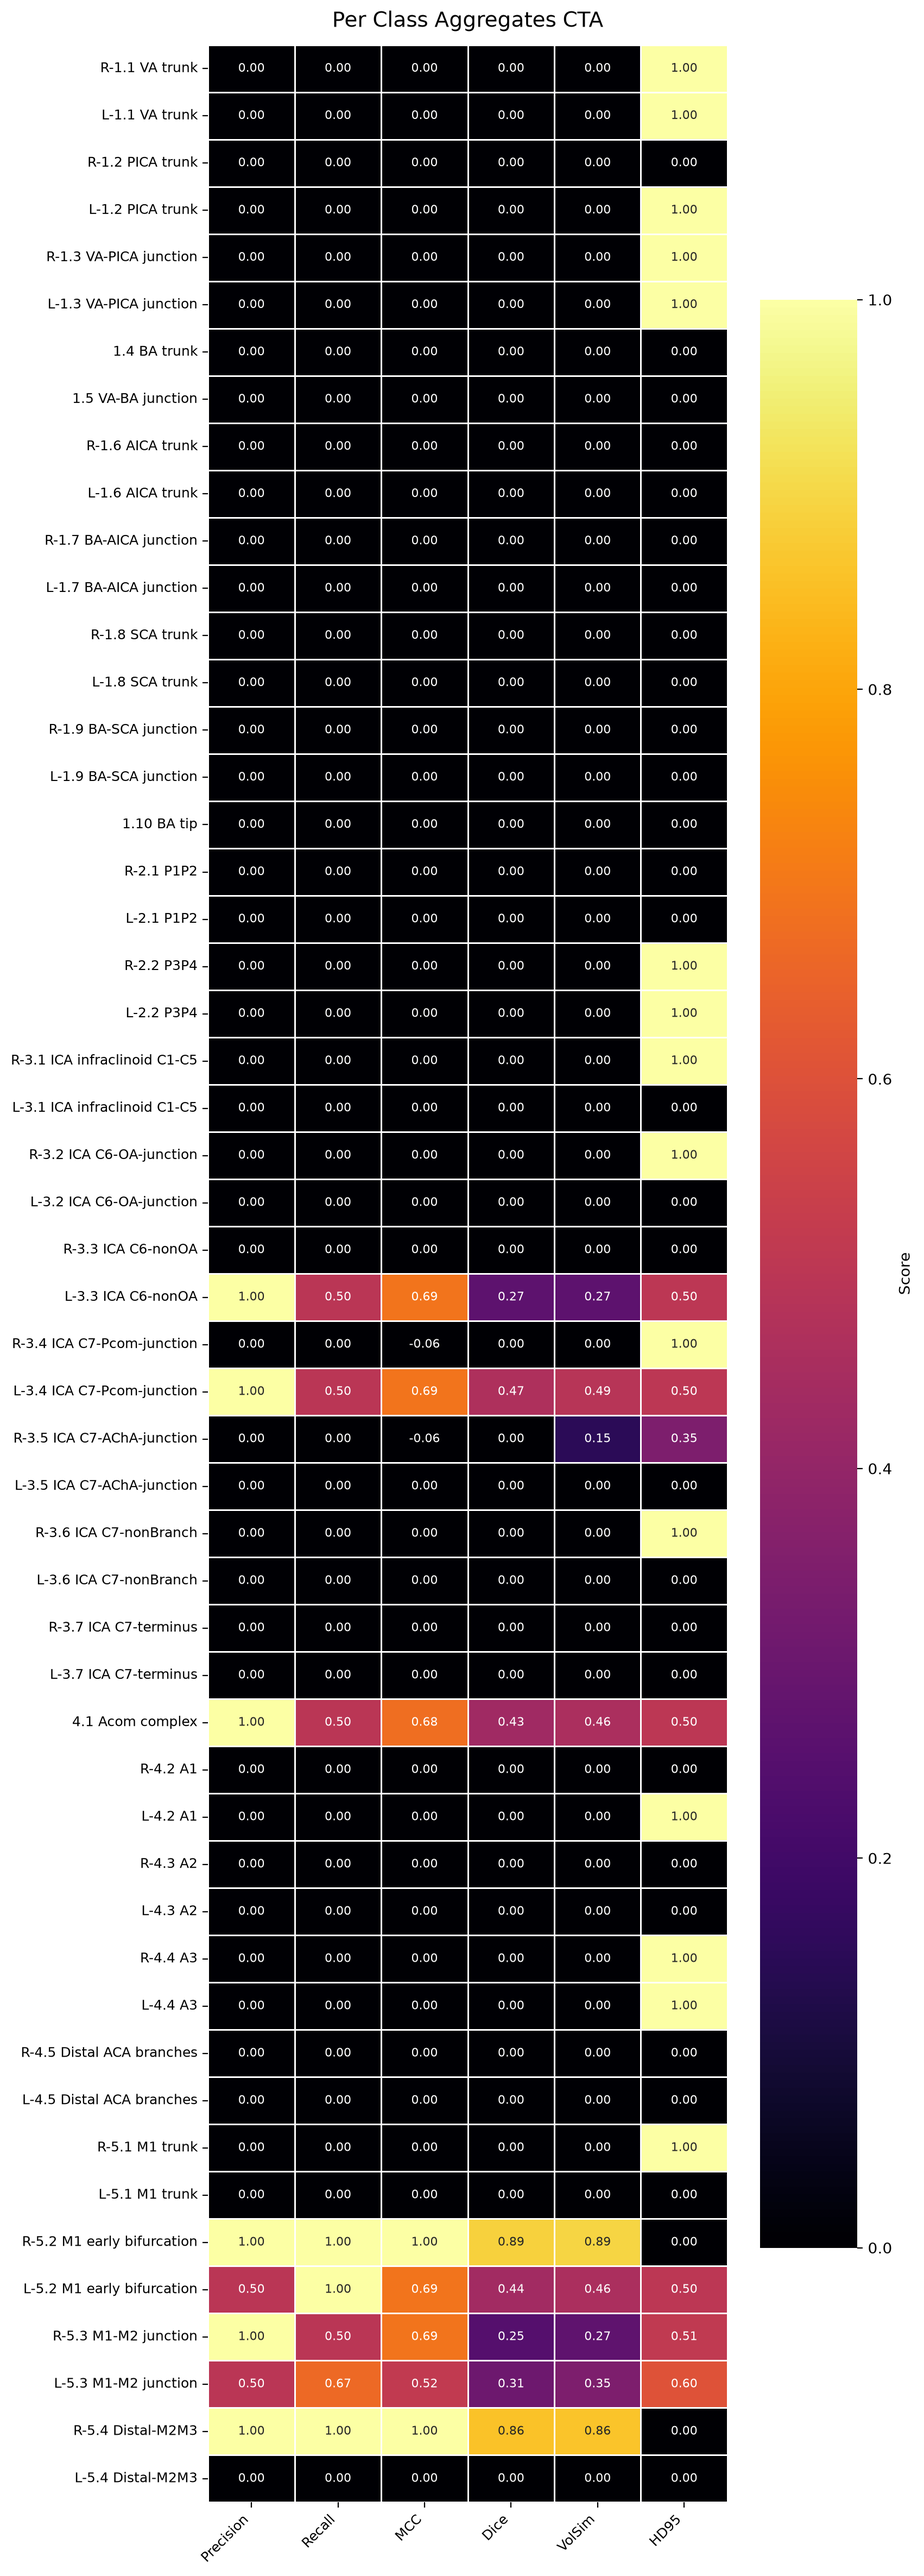
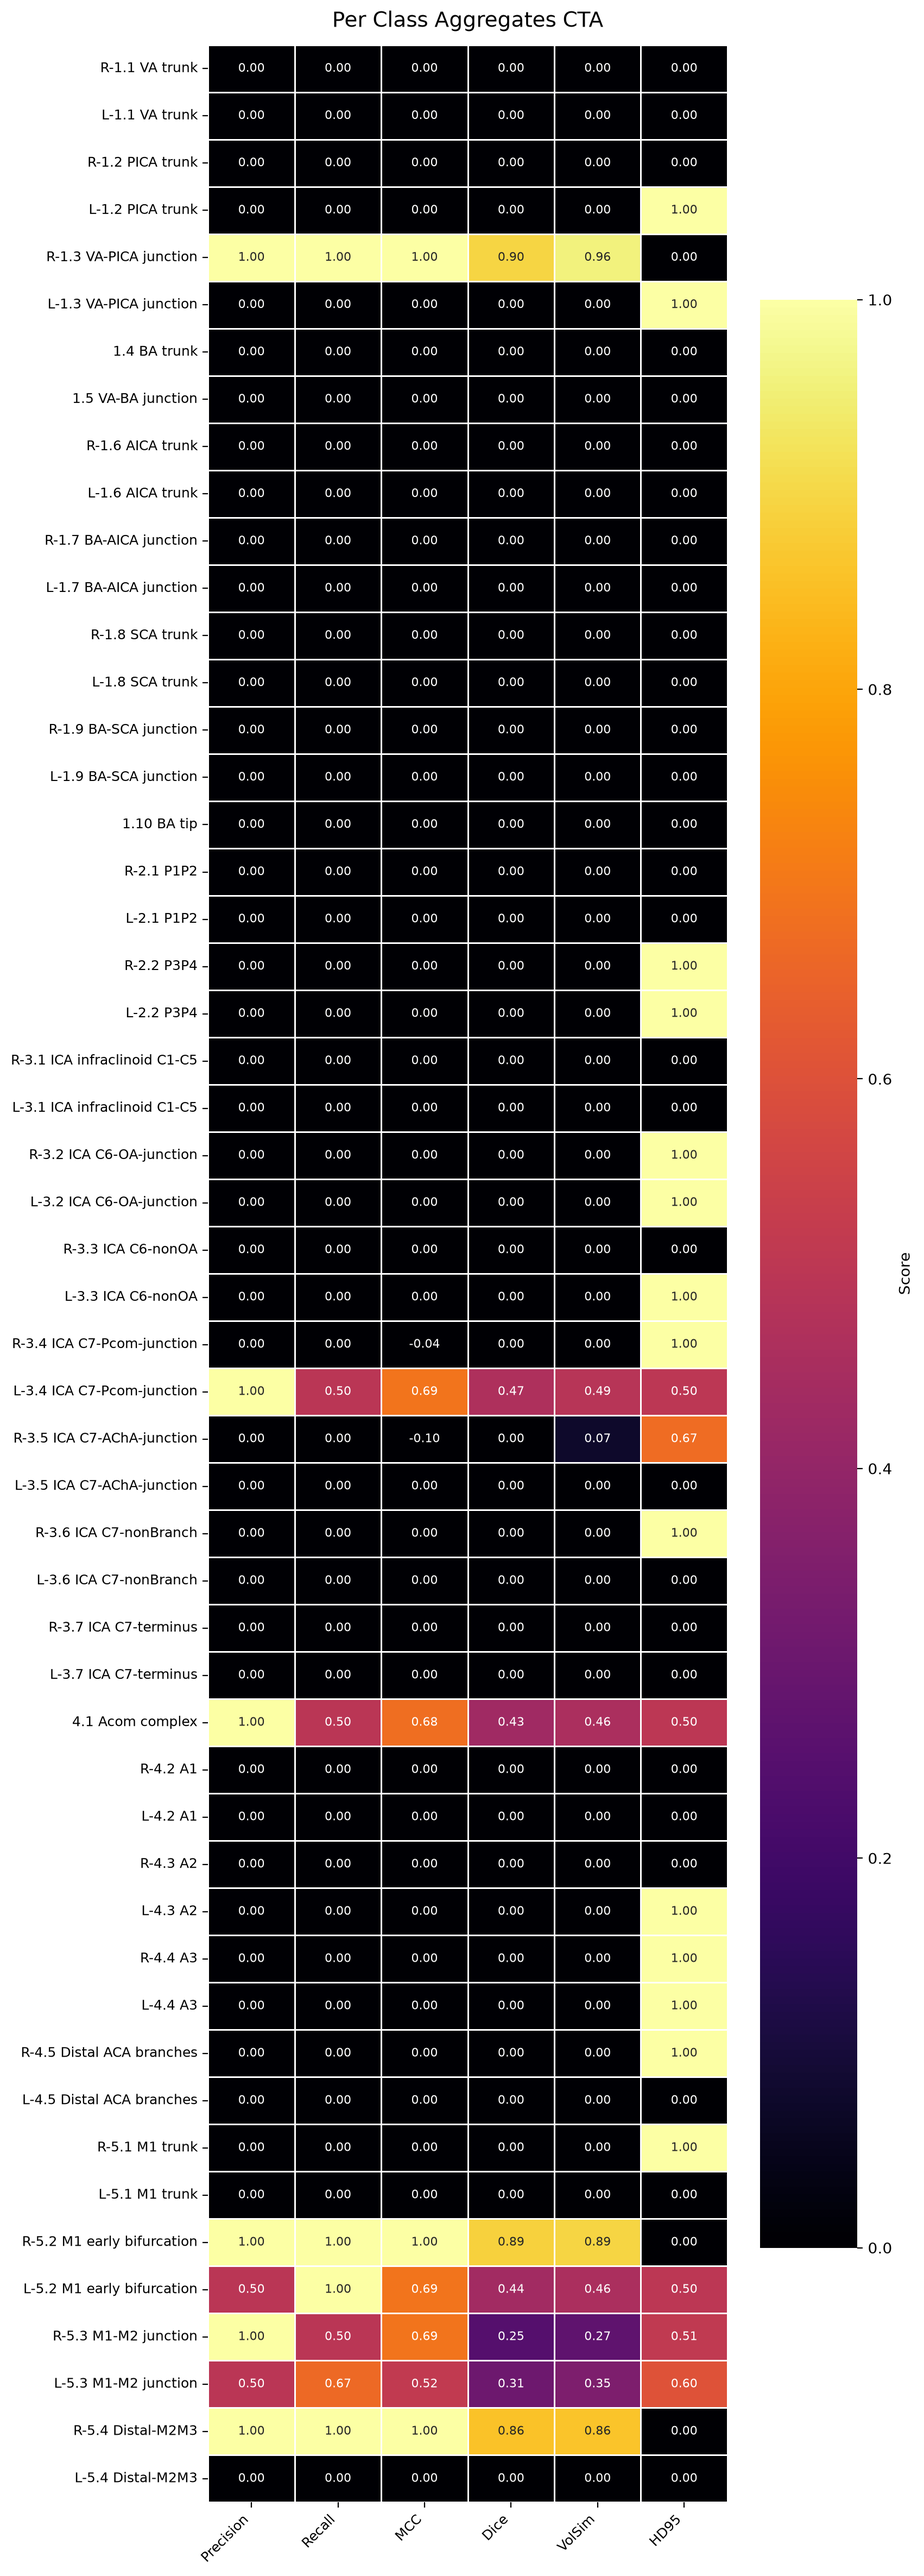
Fix TTA, add more thorough result tallying and exploration.

diff --git a/result_exploration.py b/result_exploration.py
@@ -1,0 +1,58 @@
+import json
+from copy import deepcopy
+from collections import Counter
+from pprint import pprint
+from TnT.utils.dataloader import TopAneu_TnTs2_DS
+with open('/home/tue20260926/Repos/TopAneu-26/topaneu_release/location_mapping.json', 'r') as f:
+            mapping = {v:k for k, v in json.load(f)['labels'].items()}
+file  = '/home/tue20260926/Repos/topaneu_tulips_and_tapas/results_perfseg_tta/classification_failure.json'
+print('#################### Expoloring Results ####################')
+print(' File:', file)
+te = TopAneu_TnTs2_DS.load('tuning-test.json', None)
+labels_te = []
+for i in range(len(te)):
+    labels_te.append(te[i]['location_a'])
+n_aneu_gt = (len(te))
+labels_te = {mapping[k]:v for k, v in Counter(labels_te).items()}
+
+with open(file, 'r') as f:
+    cls_fail = json.load(f)
+n_failed = len(cls_fail)
+print(' N-Failed-Aneurysms:', n_failed, f'({n_failed/n_aneu_gt:.4f}%)')
+
+tr = TopAneu_TnTs2_DS.load('train.json', None)
+tr.preprocess(include_bg=False, include_pred=False, include_syn=False, max_items=-1, filter=None)
+        
+labels = []
+for i in range(len(tr)):
+    labels.append(tr[i]['location_a'])
+n_in_train = (len(tr))
+labels = {mapping[k]:v for k, v in Counter(labels).items()}
+
+failed_gts = []
+failure_modes = {'other':[]}
+for name, fail in cls_fail.items():
+    gt = fail['GT']
+    pred = fail['Predicted']
+    failed_gts.append(gt)
+    grp_gt = deepcopy(gt).split('.')[0][-1]
+    grp_pred = deepcopy(pred).split('.')[0][-1]
+    
+    ## L-R failure
+    if gt[1]=='-' and pred[1]=='-' and gt[2:]==pred[2:]:
+        if 'L-R missmatch' not in failure_modes.keys(): failure_modes['L-R missmatch']=1
+        else: failure_modes['L-R missmatch']+=1
+    
+    ## Correct group, incorrect subgroup
+    elif grp_gt == grp_pred:
+        if 'Within-group subcategory missmatch' not in failure_modes.keys(): failure_modes['Within-group subcategory missmatch']=1
+        else: failure_modes['Within-group subcategory missmatch']+=1
+        
+    else:
+        failure_modes['other'].append(name)
+        
+cnt_fgt = Counter(failed_gts)
+print('Failed cases and their occurance in the training data:')
+for k,v in cnt_fgt.items():
+    print(f'    {k}:\n        > In Test: {v} ({labels_te[k]/n_aneu_gt if k in labels_te.keys() else 0}%)\n        > In Train: {labels[k] if k in labels.keys() else 0} ({labels[k]/n_in_train if k in labels.keys() else 0}%)')
+pprint((failure_modes))

diff --git a/TnT/evaluation/topaneu26.py b/TnT/evaluation/topaneu26.py
@@ -389,7 +389,10 @@ class TopAneu26LikeEvaluator():
         return results, aggregates_all, averages_all
     
     def eval_ds(self, testset):
+        with open('/home/tue20260926/Repos/TopAneu-26/topaneu_release/location_mapping.json', 'r') as f:
+            mapping = {v:k for k, v in json.load(f)['labels'].items()}
         results = []
+        discrepancies = {}
         for i in tqdm(range(len(testset)), desc='Evaluating'):
             smp = testset[i]
             if not self.use_perf:
@@ -407,11 +410,22 @@ class TopAneu26LikeEvaluator():
             res = evaluation_function(pred, smp['location_mask'])
             res['modality'] = smp['modality']
             results.append(res)
+            
+            if self.use_perf:
+                cc, n = label(smp['location_mask'])
+                for i in range(1, n+1):
+                    slc = cc==i
+                    gt_v=np.median(smp['location_mask'][slc])
+                    pred_v=np.median(pred[slc])
+                    if gt_v!=pred_v:
+                        discrepancies[smp['id']+f'_{i}']={'GT':mapping[gt_v],'Predicted':mapping[pred_v]}
+            
+            
         aggregates = evaluation_aggregation(results)
         averages = evaluation_average(aggregates)
         print('Results:')
         pprint(averages)
-        return results, aggregates, averages
+        return results, aggregates, averages, discrepancies
     
     def re_eval_by_modality(self, results, path):
         path = Path(path)

diff --git a/TnT/pipeline/inference.py b/TnT/pipeline/inference.py
@@ -88,7 +88,7 @@ class InferencePipeline():
         return decoded_label
     
     def _stage2_TTA(self, smp:dict) -> int:
-        ttas = [
+        ttas = [ ## for more ttas the model should be trained with more flip augmentations
             (False, False, False), 
             (False, False, True),
         ]
@@ -100,9 +100,9 @@ class InferencePipeline():
             crd = smp['coords']
             
             flip_lat = False
-            for dim, trig in enumerate(tta):## lat dim is 2
+            for dim, trig in enumerate(tta):## lat dim is 2 in unchanneled data
                 if trig:
-                    img = torch.flip(img, [dim])
+                    img = torch.flip(img, [dim+1]) # +1 to offset channel dim
                     crd[dim] = 1 - crd[dim]
                     if dim == 2: flip_lat = True
                 

diff --git a/inference.py b/inference.py
@@ -18,14 +18,16 @@ if __name__ == '__main__':
     }
     
     ## Prep pipeline
-    pl = InferencePipeline(S1_path, S2_path, PATCH_SIZE_VX, PATCH_SIZE_MM)
+    pl = InferencePipeline(S1_path, S2_path, PATCH_SIZE_VX, PATCH_SIZE_MM, use_tta=True)
     
     ## Prep data
     test = TopAneuDS.load('test.json')
     ## Prep evaluator
-    outdir = 'results_with_s1_modspec'
+    outdir = 'results_with_s1_tta'
     ev = TopAneu26LikeEvaluator(pl, outdir, use_perfect_segmentations=False)
-    res, agg, avg = ev.eval_ds(test)#ev.eval_list(test.src, test.cases)
+    res, agg, avg, disc = ev.eval_ds(test)#ev.eval_list(test.src, test.cases)
+    with open(f'{outdir}/classification_failure.json', 'w') as f:
+            json.dump(disc, f, indent=4)
     
     # with open('res_agg.json', 'w') as f:
     #     json.dump(agg, f, indent=4)
